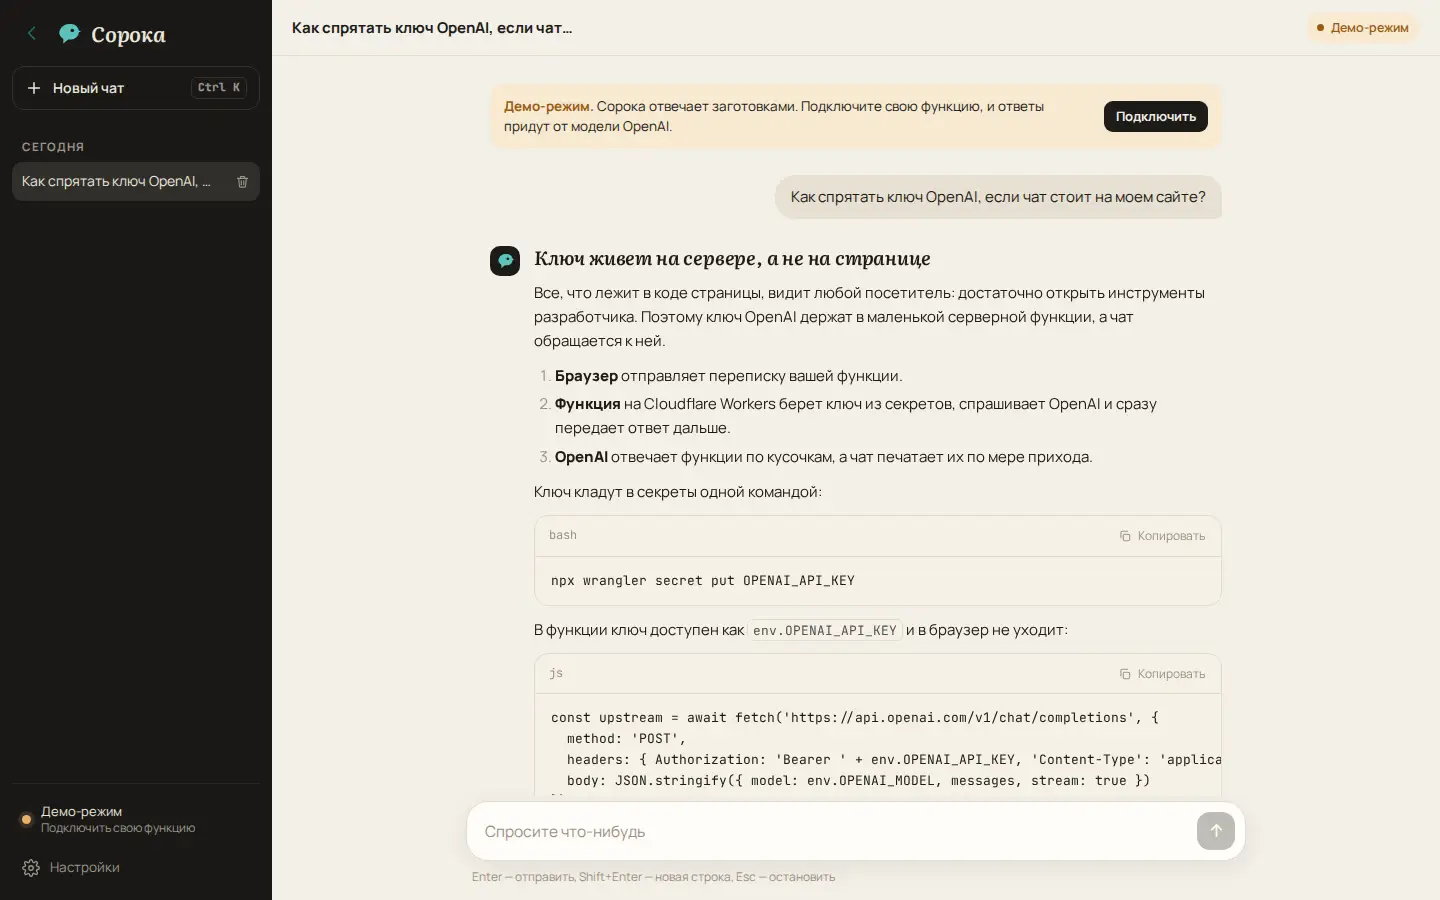
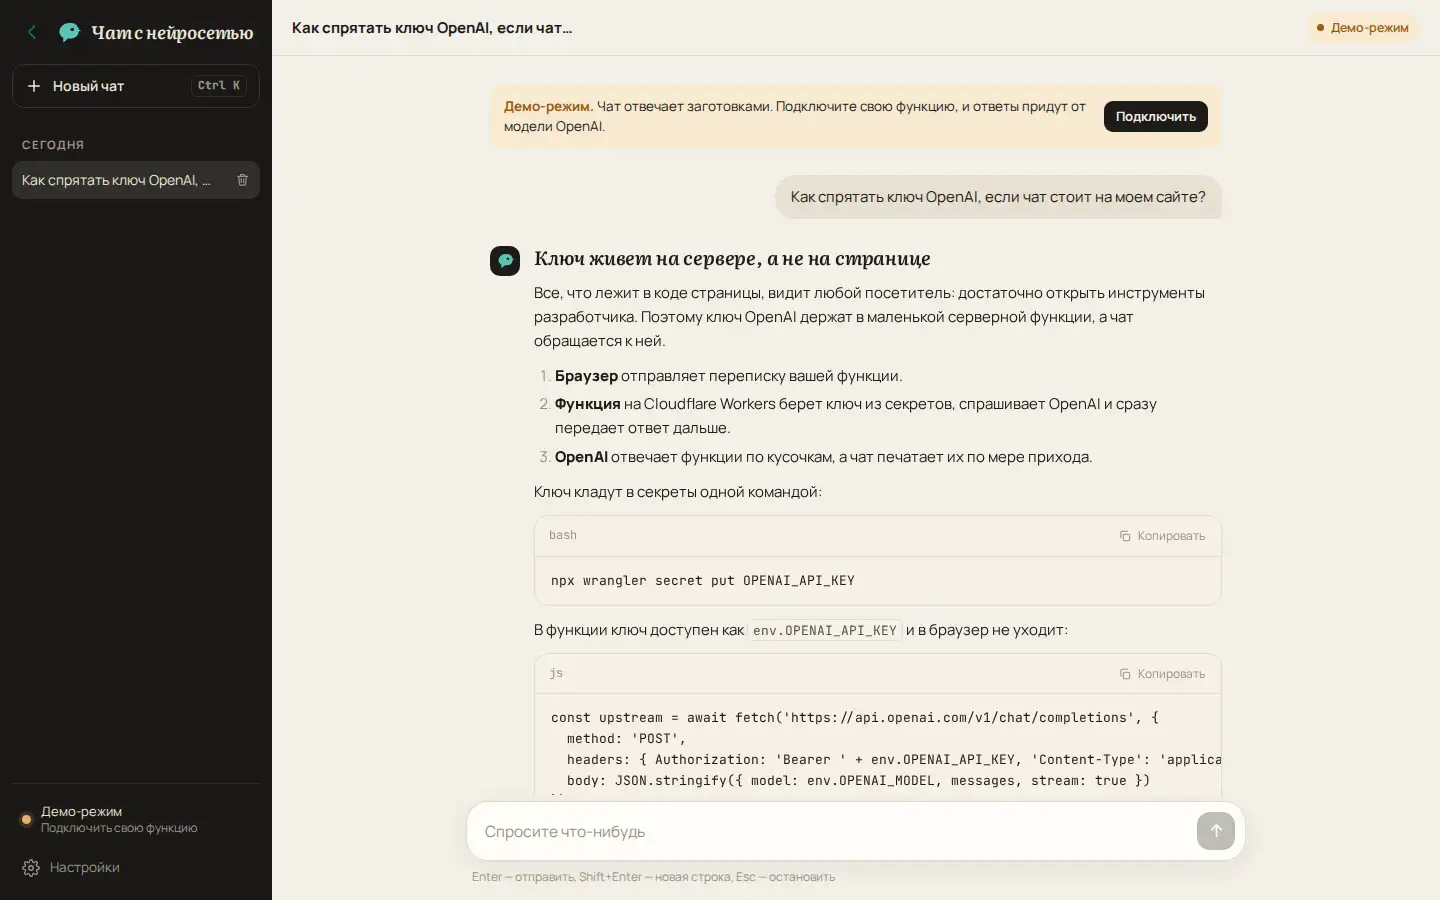
Rename AI chat demo to neutral name, new screenshot

diff --git a/demos/chat/script.js b/demos/chat/script.js
@@ -36,7 +36,7 @@
     },
     {
       test: /поток|stream|sse|по словам|печата/i,
-      text: '## Потоковый ответ\n\nМодель пишет ответ не целиком, а по нескольку символов. С параметром `stream: true` OpenAI отправляет каждый кусочек сразу, строкой формата Server-Sent Events:\n\n```text\ndata: {"choices":[{"delta":{"content":"При"}}]}\ndata: {"choices":[{"delta":{"content":"вет"}}]}\ndata: [DONE]\n```\n\nБраузер читает такой ответ постепенно и дописывает текст на экран:\n\n```js\nconst res = await fetch(endpoint, { method: \'POST\', body: JSON.stringify({ messages }) });\nconst reader = res.body.getReader();\nconst decoder = new TextDecoder();\nlet buffer = \'\';\nwhile (true) {\n  const { value, done } = await reader.read();\n  if (done) break;\n  buffer += decoder.decode(value, { stream: true });\n  const lines = buffer.split(\'\\n\');\n  buffer = lines.pop();\n  for (const line of lines) {\n    if (!line.startsWith(\'data: \') || line === \'data: [DONE]\') continue;\n    const delta = JSON.parse(line.slice(6)).choices[0].delta.content;\n    if (delta) output.textContent += delta;\n  }\n}\n```\n\n| Без потока | С потоком |\n| --- | --- |\n| ждете весь ответ | первые слова через долю секунды |\n| один большой ответ | много маленьких строк `data:` |\n\nСорока работает именно так, только вместо `textContent` превращает Markdown в оформленный текст.'
+      text: '## Потоковый ответ\n\nМодель пишет ответ не целиком, а по нескольку символов. С параметром `stream: true` OpenAI отправляет каждый кусочек сразу, строкой формата Server-Sent Events:\n\n```text\ndata: {"choices":[{"delta":{"content":"При"}}]}\ndata: {"choices":[{"delta":{"content":"вет"}}]}\ndata: [DONE]\n```\n\nБраузер читает такой ответ постепенно и дописывает текст на экран:\n\n```js\nconst res = await fetch(endpoint, { method: \'POST\', body: JSON.stringify({ messages }) });\nconst reader = res.body.getReader();\nconst decoder = new TextDecoder();\nlet buffer = \'\';\nwhile (true) {\n  const { value, done } = await reader.read();\n  if (done) break;\n  buffer += decoder.decode(value, { stream: true });\n  const lines = buffer.split(\'\\n\');\n  buffer = lines.pop();\n  for (const line of lines) {\n    if (!line.startsWith(\'data: \') || line === \'data: [DONE]\') continue;\n    const delta = JSON.parse(line.slice(6)).choices[0].delta.content;\n    if (delta) output.textContent += delta;\n  }\n}\n```\n\n| Без потока | С потоком |\n| --- | --- |\n| ждете весь ответ | первые слова через долю секунды |\n| один большой ответ | много маленьких строк `data:` |\n\nЭтот чат работает именно так, только вместо `textContent` превращает Markdown в оформленный текст.'
     },
     {
       test: /план|стать|блог|сон/i,
@@ -44,10 +44,10 @@
     },
     {
       test: /^\s*(привет|здравств|добрый|hi|hello|хай)/i,
-      text: 'Привет! Я Сорока, чат с нейросетью. Сейчас я в **демо-режиме** и отвечаю заготовками, зато показываю, как выглядит настоящий чат: ответ печатается по мере генерации, а код и таблицы оформлены.\n\nСпросите, например, как спрятать ключ OpenAI, или попросите составить план статьи.'
+      text: 'Привет! Это чат с нейросетью. Сейчас он в **демо-режиме** и отвечает заготовками, зато показывает, как выглядит настоящий чат: ответ печатается по мере генерации, а код и таблицы оформлены.\n\nСпросите, например, как спрятать ключ OpenAI, или попросите составить план статьи.'
     }
   ];
-  var DEMO_DEFAULT = 'Сейчас Сорока работает в **демо-режиме**: ответы заготовлены заранее, а нейросеть не подключена.\n\nЧтобы чат отвечал по-настоящему, подключите свою функцию:\n\n1. Скачайте `worker.js` и `wrangler.toml` с [GitHub](' + REPO_WORKER + ').\n2. Сохраните ключ OpenAI в секретах Cloudflare: `npx wrangler secret put OPENAI_API_KEY`.\n3. Опубликуйте функцию командой `npx wrangler deploy`.\n4. Вставьте ее адрес в **Настройки → Адрес вашей функции**.\n\nКлюч останется на Cloudflare, а чат получит только текст ответа.';
+  var DEMO_DEFAULT = 'Сейчас чат работает в **демо-режиме**: ответы заготовлены заранее, а нейросеть не подключена.\n\nЧтобы чат отвечал по-настоящему, подключите свою функцию:\n\n1. Скачайте `worker.js` и `wrangler.toml` с [GitHub](' + REPO_WORKER + ').\n2. Сохраните ключ OpenAI в секретах Cloudflare: `npx wrangler secret put OPENAI_API_KEY`.\n3. Опубликуйте функцию командой `npx wrangler deploy`.\n4. Вставьте ее адрес в **Настройки → Адрес вашей функции**.\n\nКлюч останется на Cloudflare, а чат получит только текст ответа.';
 
   var ERRORS = {
     origin_not_allowed: 'Функция не принимает запросы с этого сайта. Добавьте адрес сайта в ALLOWED_ORIGINS в wrangler.toml и опубликуйте функцию снова.',
@@ -384,7 +384,7 @@
     var wrap = document.createElement('div');
     wrap.className = 'sk-hello';
     wrap.innerHTML = '<div class="sk-hello__mark">' + ICON_MARK.replace('var(--sk-ink)', 'var(--sk-bg)') + '</div><div class="sk-hello__title">О чем поболтаем?</div><div class="sk-hello__sub">' +
-      (isLive() ? 'Сорока подключена к вашей функции и отвечает моделью OpenAI.' : 'Сорока в демо-режиме: ответы заготовлены, но печатаются так же, как настоящие.') + '</div>';
+      (isLive() ? 'Чат подключен к вашей функции и отвечает моделью OpenAI.' : 'Чат в демо-режиме: ответы заготовлены, но печатаются так же, как настоящие.') + '</div>';
     var ideas = document.createElement('div');
     ideas.className = 'sk-ideas';
     IDEAS.forEach(function (it) {
@@ -401,7 +401,7 @@
   function renderNotice() {
     var n = document.createElement('div');
     n.className = 'sk-notice';
-    n.innerHTML = '<span><b>Демо-режим.</b> Сорока отвечает заготовками. Подключите свою функцию, и ответы придут от модели OpenAI.</span>';
+    n.innerHTML = '<span><b>Демо-режим.</b> Чат отвечает заготовками. Подключите свою функцию, и ответы придут от модели OpenAI.</span>';
     var b = document.createElement('button');
     b.type = 'button'; b.className = 'sk-notice__btn'; b.textContent = 'Подключить';
     b.addEventListener('click', openConnect);
@@ -499,7 +499,7 @@
     var md = state.busy.node.querySelector('.sk-md');
     var text = state.busy.msg.content;
     if (!text) {
-      md.innerHTML = '<span class="sk-wait" aria-label="Сорока думает"><i></i><i></i><i></i></span>';
+      md.innerHTML = '<span class="sk-wait" aria-label="Модель думает"><i></i><i></i><i></i></span>';
       state.busy.node.classList.remove('is-streaming');
     } else {
       state.busy.node.classList.add('is-streaming');

diff --git a/demos/chat/frame.html b/demos/chat/frame.html
@@ -2,7 +2,7 @@
   <aside class="sk-side" id="skSide" aria-label="Переписки">
     <div class="sk-side__top">
       <a class="sk-side__back" href="/docs/v2/ru/guides/demo/" aria-label="Назад к каталогу демо" title="Назад к каталогу демо"><svg viewBox="0 0 24 24" fill="none" stroke="currentColor" stroke-width="2" stroke-linecap="round" stroke-linejoin="round"><path d="M15 5l-7 7 7 7"/></svg></a>
-      <div class="sk-logo"><svg class="sk-logo__mark" viewBox="0 0 32 32" aria-hidden="true"><path d="M4 17c0-6.6 5.4-12 12-12h3a9 9 0 0 1 9 9v1a9 9 0 0 1-9 9h-4l-6 5v-5.6A12 12 0 0 1 4 17z" fill="currentColor"/><circle cx="20" cy="13" r="2.2" fill="var(--sk-side)"/><path d="M27 12.5l4 1.5-4 1.5" fill="currentColor"/></svg><span>Сорока</span></div>
+      <div class="sk-logo"><svg class="sk-logo__mark" viewBox="0 0 32 32" aria-hidden="true"><path d="M4 17c0-6.6 5.4-12 12-12h3a9 9 0 0 1 9 9v1a9 9 0 0 1-9 9h-4l-6 5v-5.6A12 12 0 0 1 4 17z" fill="currentColor"/><circle cx="20" cy="13" r="2.2" fill="var(--sk-side)"/><path d="M27 12.5l4 1.5-4 1.5" fill="currentColor"/></svg><span>Чат с нейросетью</span></div>
       <button class="sk-iconbtn sk-side__close" id="skSideClose" type="button" aria-label="Скрыть список">
         <svg viewBox="0 0 24 24" fill="none" stroke="currentColor" stroke-width="2" stroke-linecap="round"><path d="M6 6l12 12M18 6L6 18"/></svg>
       </button>
@@ -113,7 +113,7 @@ npx wrangler login</code></pre></li>
   <div class="sk-modal sk-modal--intro" id="skIntro">
     <div class="sk-modal__bg"></div>
     <div class="sk-modal__card sk-intro" role="dialog" aria-modal="true" aria-labelledby="skIntroTitle">
-      <div class="sk-intro__brand"><svg class="sk-logo__mark" viewBox="0 0 32 32" aria-hidden="true"><path d="M4 17c0-6.6 5.4-12 12-12h3a9 9 0 0 1 9 9v1a9 9 0 0 1-9 9h-4l-6 5v-5.6A12 12 0 0 1 4 17z" fill="currentColor"/><circle cx="20" cy="13" r="2.2" fill="var(--sk-surface)"/><path d="M27 12.5l4 1.5-4 1.5" fill="currentColor"/></svg>Сорока</div>
+      <div class="sk-intro__brand"><svg class="sk-logo__mark" viewBox="0 0 32 32" aria-hidden="true"><path d="M4 17c0-6.6 5.4-12 12-12h3a9 9 0 0 1 9 9v1a9 9 0 0 1-9 9h-4l-6 5v-5.6A12 12 0 0 1 4 17z" fill="currentColor"/><circle cx="20" cy="13" r="2.2" fill="var(--sk-surface)"/><path d="M27 12.5l4 1.5-4 1.5" fill="currentColor"/></svg>Демо-приложение</div>
       <h1 class="sk-intro__h1" id="skIntroTitle">{{page.title || Чат с нейросетью}}</h1>
       <div class="sk-intro__text"><!-- onpress/content /--></div>
       <div class="sk-intro__actions">

diff --git a/demos/chat/style.css b/demos/chat/style.css
@@ -64,7 +64,7 @@ html.sk-on, html.sk-on body { margin: 0; padding: 0; height: 100%; overflow: hid
 .sk-side__back { display: grid; place-items: center; width: 32px; height: 32px; border-radius: 9px; color: var(--sk-side-soft); text-decoration: none; transition: background .15s, color .15s; }
 .sk-side__back svg { width: 20px; height: 20px; }
 .sk-side__back:hover { background: var(--sk-side-hover); color: var(--sk-side-ink); }
-.sk-logo { display: flex; align-items: center; gap: 9px; font-family: var(--sk-serif); font-size: 21px; font-weight: 600; font-style: italic; letter-spacing: -0.01em; color: var(--sk-side-ink); }
+.sk-logo { display: flex; align-items: center; gap: 9px; font-family: var(--sk-serif); font-size: 18px; font-weight: 600; font-style: italic; letter-spacing: -0.01em; color: var(--sk-side-ink); white-space: nowrap; }
 .sk-logo__mark { width: 26px; height: 26px; color: #5cc2bb; }
 .sk .sk-side__close { margin-left: auto; display: none; color: var(--sk-side-soft); }
 .sk-new { display: flex; align-items: center; gap: 10px; width: 100%; padding: 10px 12px; border-radius: 12px; border: 1px solid #34312c; color: var(--sk-side-ink); font-weight: 600; font-size: 14px; transition: background .15s, border-color .15s; }

diff --git a/demos/chat/page.md b/demos/chat/page.md
@@ -1,12 +1,12 @@
 ---
 name: "Чат с нейросетью"
 seo_title: "Чат с нейросетью на своем сайте: ChatGPT-чат без утечки ключа OpenAI — демо фрейма OnPress"
-seo_description: "Сорока — чат с нейросетью в духе ChatGPT: потоковый ответ, Markdown, история в браузере. Ключ OpenAI хранит ваша функция на Cloudflare Workers, а не страница. Код функции и чата на GitHub."
+seo_description: "Чат с нейросетью в духе ChatGPT для своего сайта: потоковый ответ, Markdown, история в браузере. Ключ OpenAI хранит ваша функция на Cloudflare Workers, а не страница. Код функции и чата на GitHub."
 url: "/chat/"
 status: "publish"
 frame: "demo-chat"
 ---
 
-Сорока — чат с нейросетью в духе ChatGPT. Она печатает ответ по мере генерации, оформляет код, списки и таблицы и хранит переписки в вашем браузере.
+Чат с нейросетью в духе ChatGPT. Он печатает ответ по мере генерации, оформляет код, списки и таблицы и хранит переписки в вашем браузере.
 
-Ключа OpenAI в чате нет. Без своей функции Сорока отвечает заготовками и показывает, как подключить маленькую функцию на Cloudflare Workers: функция хранит ключ, спрашивает модель и передает ответ в чат.
+Ключа OpenAI в чате нет. Без своей функции чат отвечает заготовками и показывает, как подключить маленькую функцию на Cloudflare Workers: функция хранит ключ, спрашивает модель и передает ответ в чат.

diff --git a/README.md b/README.md
@@ -30,7 +30,7 @@ Frame guide and API reference (in Russian):
 | SKANTEKST (OCR) | Text from images in Russian and English with tesseract.js | [live](https://onpress.pro/docs/v2/ru/guides/demo/ocr/) | [demos/ocr](demos/ocr/) |
 | Puls (web analytics) | Analytics dashboard: KPIs, channels, UTM with ROMI, world map, funnel, cohorts, MRR | [live](https://onpress.pro/docs/v2/ru/guides/demo/analytics/) | [demos/analytics](demos/analytics/) |
 | Life simulator | Text life simulator: diary by years, education, 18 professions, money, family, 141 events, achievements | [live](https://onpress.pro/docs/v2/ru/guides/demo/life/) | [demos/life](demos/life/) |
-| Soroka (AI chat) | ChatGPT-style chat with streaming answers and Markdown; the OpenAI key stays in your Cloudflare Worker | [live](https://onpress.pro/docs/v2/ru/guides/demo/chat/) | [demos/chat](demos/chat/) |
+| AI chat | ChatGPT-style chat with streaming answers and Markdown; the OpenAI key stays in your Cloudflare Worker | [live](https://onpress.pro/docs/v2/ru/guides/demo/chat/) | [demos/chat](demos/chat/) |
 | Mortgage calculator (embedded) | Calculator inside an article, inserted with `<!-- frame/demo-embed-mortgage /-->` | [live](https://onpress.pro/docs/v2/ru/guides/demo/embedded/) | [demos/embed-mortgage](demos/embed-mortgage/) |
 
 The app interfaces are in Russian, like the site they run on.

diff --git a/demos/chat/README.md b/demos/chat/README.md
@@ -1,8 +1,8 @@
-# Soroka (AI chat)
+# AI chat
 
 A ChatGPT-style chat with an OpenAI model that you can publish on an OnPress site without exposing your OpenAI API key. The answer streams in as the model writes it, Markdown in answers (code, lists, tables) is rendered safely, and conversations stay in the visitor's `localStorage`.
 
-![Soroka](screenshot.webp)
+![AI chat](screenshot.webp)
 
 Live page: https://onpress.pro/docs/v2/ru/guides/demo/chat/
 
